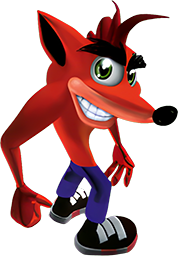
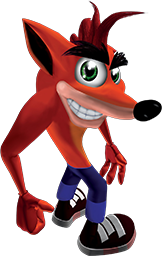
Updated char. images

diff --git a/uk/CharactersTWOCUK.html b/uk/CharactersTWOCUK.html
@@ -224,7 +224,7 @@
                                                                             <td>
                                                                                 <img style="max-width: 100%;"
                                                                                     class="glow"
-                                                                                    src="../images/characters/coco2.png"
+                                                                                    src="../images/characters/coco2jp.png"
                                                                                     border="0" />
                                                                             </td>
                                                                         </tr>
